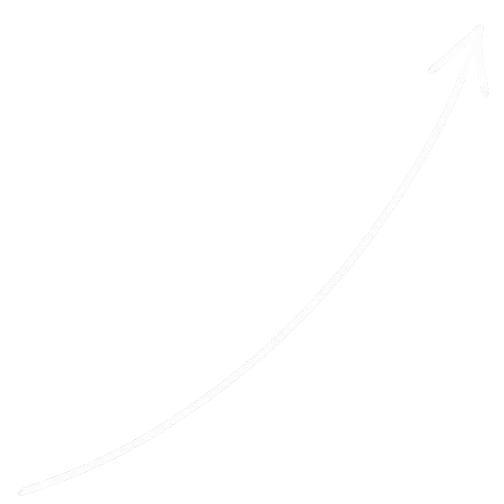
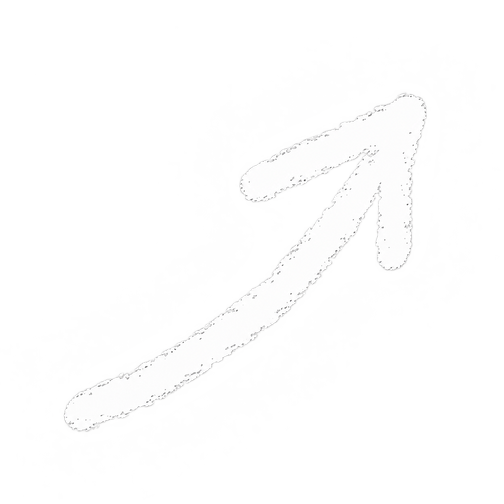
fix: 加粗下载页蜡笔字并缩短箭头

diff --git a/download.css b/download.css
@@ -131,10 +131,11 @@
   rotate: -5deg;
 }
 .download-arrow {
-  left: 22.5%;
-  top: 44%;
-  width: clamp(78px, 9.5vw, 168px);
-  height: clamp(92px, 24dvh, 200px);
+  left: 25.4%;
+  top: 62%;
+  width: clamp(64px, 6.4vw, 104px);
+  height: clamp(62px, 11dvh, 100px);
+  opacity: .9;
 }
 
 .download-sketches {
@@ -252,11 +253,12 @@
     transform: translateY(-50%);
   }
   .download-arrow {
-    left: 37%;
-    top: 30%;
-    width: clamp(42px, 13vw, 75px);
-    height: min(50%, 76px);
-    transform: translateY(-45%);
+    left: 35.5%;
+    top: 40%;
+    width: clamp(38px, 11vw, 65px);
+    height: min(38%, 56px);
+    transform: translateY(-40%);
+    rotate: -27deg;
   }
   /* Anchor drawings in the free rows above and below the actual copy. */
   .download-sketches img { grid-row: 1 / 2; --y: calc(50% + (var(--header-top) + var(--header-height)) / 2); }
@@ -277,7 +279,7 @@
 }
 @media (max-height: 520px) and (orientation: landscape) {
   .download-lettering { left: 8%; top: 73%; width: clamp(85px, 16vw, 150px); }
-  .download-arrow { left: 21%; top: 45%; height: 26%; }
+  .download-arrow { left: 22.5%; top: 58%; height: 17%; }
   .sketch-mac { --x: 14%; --y: 58%; --size: min(14vw, 30dvh); }
   .sketch-iphone { --x: 82%; --y: 40%; --size: min(5.3vw, 10dvh); }
   .sketch-ipad { --x: 86%; --y: 78%; --size: min(12vw, 23dvh); }

diff --git a/index.html b/index.html
@@ -350,7 +350,7 @@
   <link rel="stylesheet" href="button-motion.css?v=contact-hairline">
   <script src="button-motion.js?v=aqua-nav" type="module"></script>
   <link rel="stylesheet" href="deep-focus.css?v=focus-title-glow">
-  <link rel="stylesheet" href="download.css?v=crayon-note">
+  <link rel="stylesheet" href="download.css?v=crayon-bold">
   <link rel="stylesheet" href="gift.css?v=crayon-note">
   <link rel="stylesheet" href="mobile.css" media="(max-width: 520px)">
   <script src="sky.js?v=affiliate" type="module"></script>
@@ -614,8 +614,8 @@
           </div>
         </div>
         <div class="download-annotation">
-          <img class="download-lettering" src="download-devices/crayon-lettering.png" alt="Fly into Focus Today." width="744" height="372">
-          <img class="download-arrow" src="download-devices/crayon-arrow.png" alt="" width="504" height="504">
+          <img class="download-lettering" src="download-devices/crayon-lettering.png?v=bold" alt="Fly into Focus Today." width="744" height="372">
+          <img class="download-arrow" src="download-devices/crayon-arrow.png?v=bold" alt="" width="504" height="504">
         </div>
       </div>
     </section>
